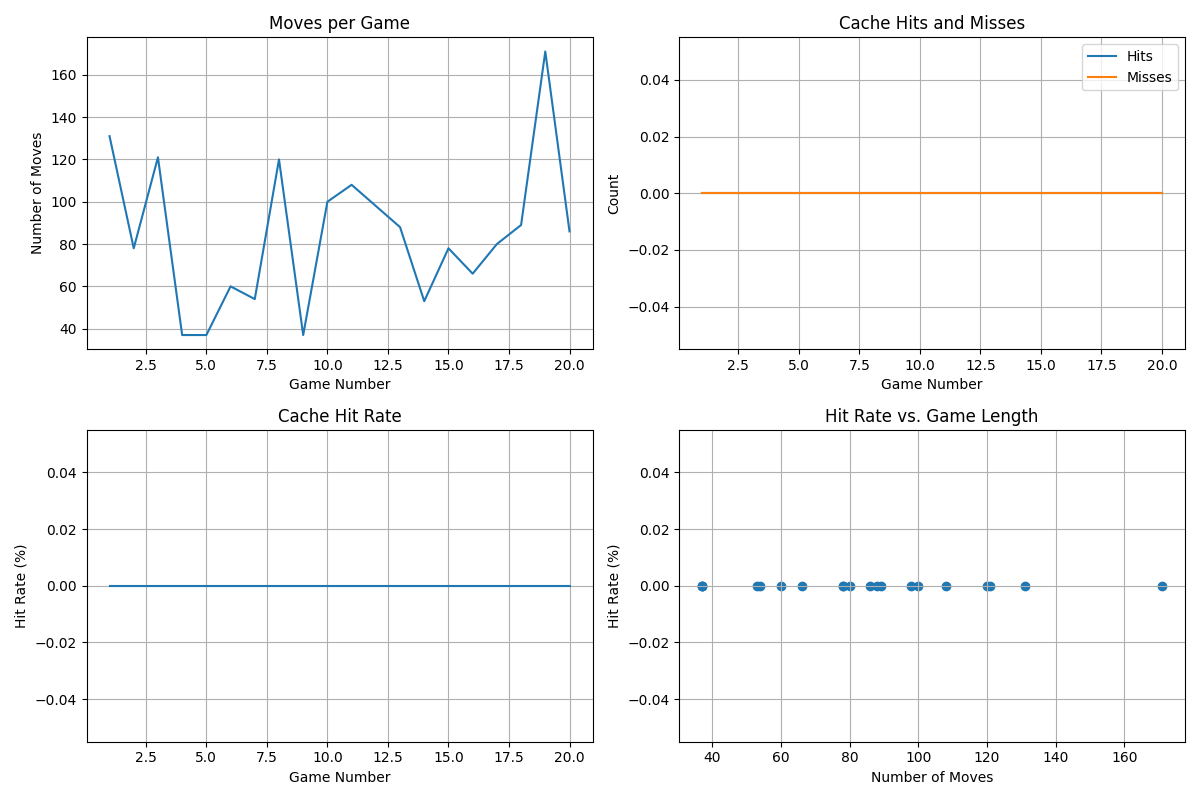
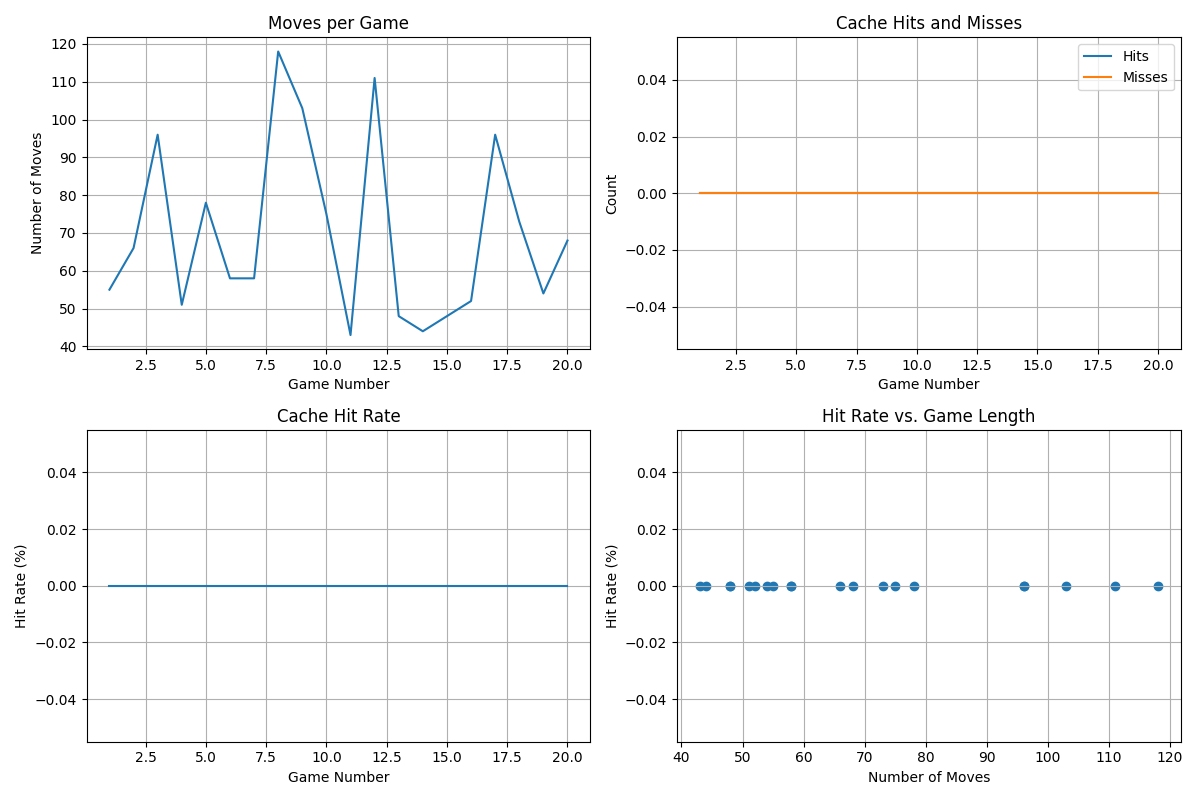
something

diff --git a/optimization_testing/detailed_profiling.py b/optimization_testing/detailed_profiling.py
@@ -80,12 +80,22 @@ def profile_single_game(game_id, chess_data):
 
 def profile_multiple_games(chess_data, num_games=5):
     """Profile multiple individual games to get a representative sample."""
-    # Use games with different PlyCount values for better representation
-    bins = pd.qcut(chess_data['PlyCount'], num_games, duplicates='drop')
-    sample_games = chess_data.groupby(bins).apply(lambda x: x.iloc[0]).index.get_level_values(1)
+    # Get games with different move counts for better representation
+    # Sort by PlyCount and select evenly spread samples
+    sorted_data = chess_data.sort_values('PlyCount')
+    step_size = len(sorted_data) // num_games
+    
+    sample_games = []
+    for i in range(num_games):
+        index = min(i * step_size, len(sorted_data) - 1)
+        sample_games.append(sorted_data.index[index])
+    
+    print(f"Selected {len(sample_games)} games with varying move counts for profiling")
     
     results = []
     for game_id in sample_games:
+        ply_count = chess_data.loc[game_id, 'PlyCount']
+        print(f"\nProfiling game {game_id} with {ply_count} moves")
         result = profile_single_game(game_id, chess_data)
         results.append((game_id, result))
         
@@ -104,7 +114,8 @@ def profile_legal_moves_cache(chess_data, num_games=10):
     Environ._global_cache_misses = 0
     
     # Process games sequentially to build up cache
-    sample_games = chess_data.iloc[:num_games].index
+    # Take a sample of games
+    sample_games = chess_data.sample(min(num_games, len(chess_data)), random_state=42).index
     
     move_counts = []
     cache_hits = []
